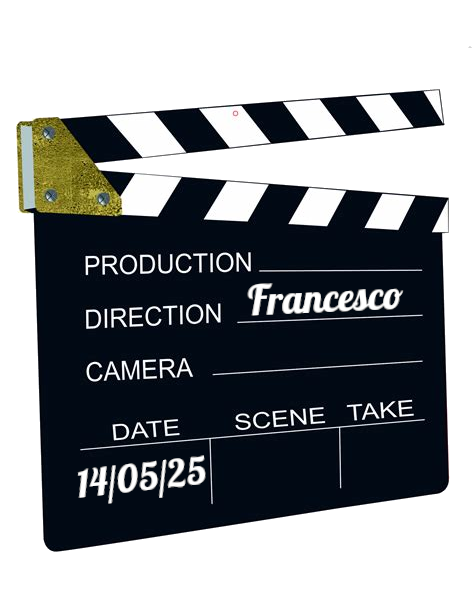
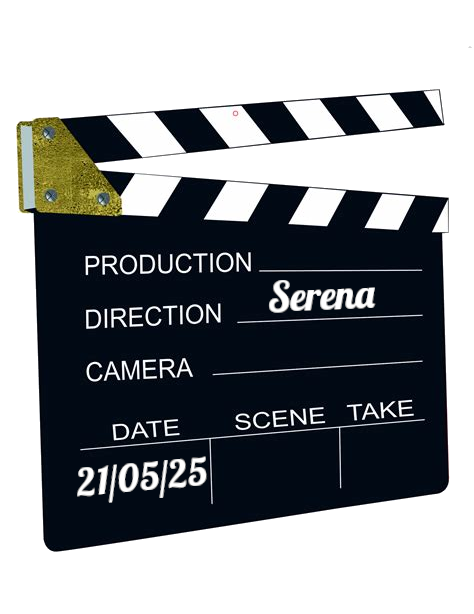
Una storia vera

Changed region(s): [[0.5021, 0.4332, 0.8565, 0.5261], [0.1477, 0.7427, 0.443, 0.8355]]

diff --git a/index.html b/index.html
@@ -38,12 +38,21 @@
 
 <br /><br /><hr width="90%"><hr width="90%"><br /><br />
 
-<h1>Mercoled&igrave; 14 maggio 2025</h1>
+<h1>Mercoled&igrave; 21 maggio 2025</h1>
 <h2>Alle 20:30 in Via Nizza, 72</h2>
 <img src="img/ciak.png" class="locandina"/>
-<h2>Selezionatore: <i>Francesco</i></h2>
+<h2>Selezionatrice: <i>Serena</i></h2>
 
 <br /><br /><hr width="90%"><hr width="90%"><br /><br />
+
+<h1>Mercoled&igrave; 14 maggio 2025</h1>
+<p class="mtitle">
+<a href="https://www.imdb.com/title/tt0166896" target="_blank">Una storia vera</a>
+</p>
+<img src="https://image.tmdb.org/t/p/w500/pQq7fzLSrowAz4EYVSDZwKVX2Hr.jpg" class="locandina"/>
+<h2>Selezionatore: <i>Francesco</i></h2>
+
+<br /><br /><hr width="90%"><br /><br />
 
 <h1>Mercoled&igrave; 7 maggio 2025</h1>
 <p class="mtitle">

diff --git a/movieslist.html b/movieslist.html
@@ -29,6 +29,17 @@ Rassegnamoci, Cineforum a Programma Variabile - Elenco Film
   </thead>
   <tbody>
     <tr>
+      <td>14-Mag-2025</td>
+      <td>Una storia vera</td>
+      <td>Francesco</td>
+      <td>-</td>
+      <td>1999</td>
+      <td>David Lynch</td>
+      <td>111</td>
+      <td>US; GB; FR</td>
+      <td><a href="https://www.imdb.com/title/tt0166896" target="_blank">https://www.imdb.com/title/tt0166896</a></td>
+    </tr>
+    <tr>
       <td>7-Mag-2025</td>
       <td>Generazione romantica</td>
       <td>Jolly</td>
